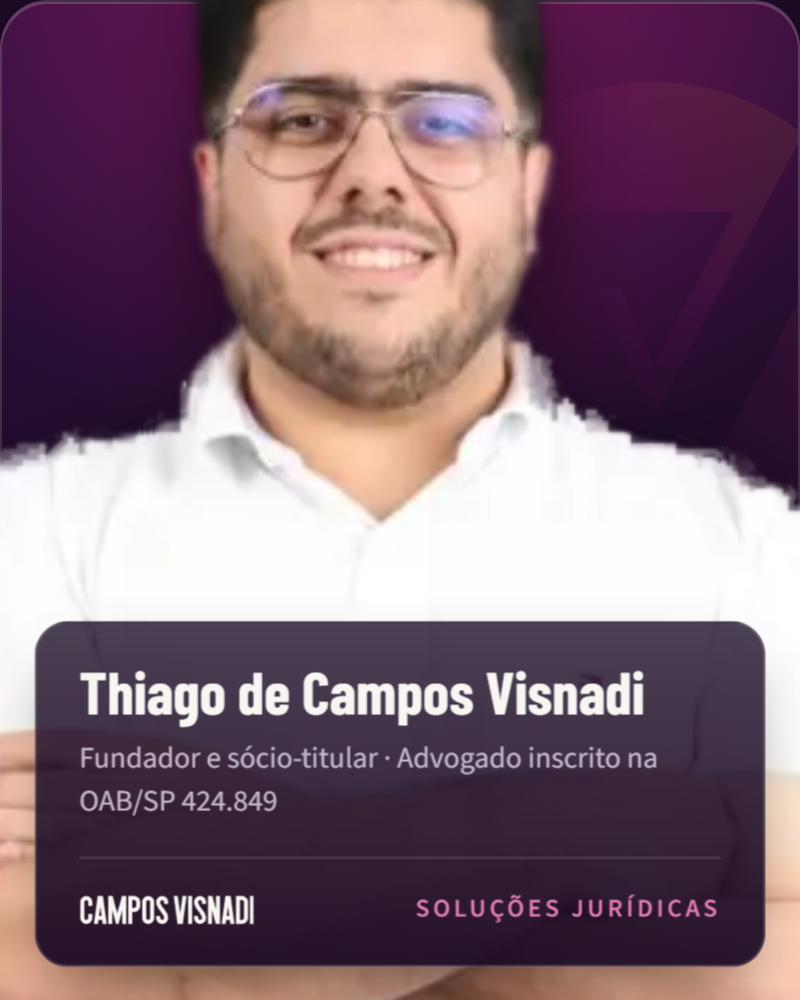
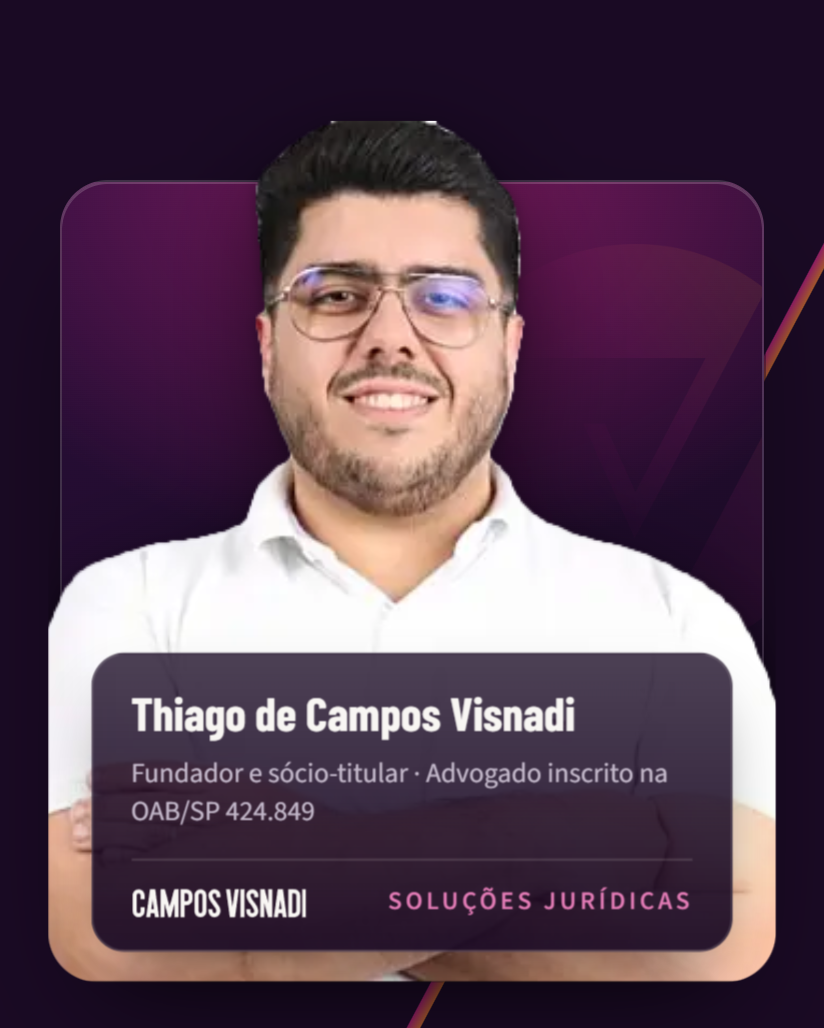
fix: recorte da foto mais nítido e sem furos na camisa
- Máscara = união de isnet-general-use + u2net_human_seg + birefnet-portrait,
  com preenchimento de buracos (camisa branca sobre fundo branco)
- Máscara calculada em 3x e aplicada nos pixels originais (sem upscale da
  imagem visível, que era a causa do desfoque) + unsharp mask
- Cartão menor e foto a 112%: menos ampliação, mantendo o relevo no topo

diff --git a/src/components/brand/founder-card.tsx b/src/components/brand/founder-card.tsx
@@ -50,7 +50,7 @@ export function FounderCard({ photo }: { photo: FounderPhoto | null }) {
   }, []);
 
   return (
-    <figure className="fc enter-card mx-auto w-full max-w-[25rem]">
+    <figure className="fc enter-card mx-auto w-full max-w-[22rem]">
       <div ref={stageRef} className="fc-stage">
         <div className="fc-bg" aria-hidden="true">
           <span className="fc-ring" />
@@ -64,7 +64,7 @@ export function FounderCard({ photo }: { photo: FounderPhoto | null }) {
             width={photo.width}
             height={photo.height}
             priority
-            sizes="(min-width: 1024px) 400px, 80vw"
+            sizes="(min-width: 1024px) 424px, 85vw"
             className="fc-photo"
           />
         ) : (
@@ -74,13 +74,13 @@ export function FounderCard({ photo }: { photo: FounderPhoto | null }) {
         )}
 
         <figcaption className="fc-plate">
-          <span className="block font-display text-[1.75rem] font-bold leading-none text-on-dark">
+          <span className="block font-display text-[1.375rem] font-bold leading-tight text-on-dark">
             {firm.founder.name}
           </span>
-          <span className="mt-2 block text-sm text-on-dark-muted">
+          <span className="mt-1.5 block text-[0.8125rem] leading-snug text-on-dark-muted">
             {firm.founder.role} · {firm.founder.registration}
           </span>
-          <span className="mt-4 flex items-center justify-between gap-3 border-t border-[rgb(248_246_243/0.14)] pt-4">
+          <span className="mt-3 flex items-center justify-between gap-3 border-t border-[rgb(248_246_243/0.14)] pt-3">
             <Wordmark className="h-3.5 w-auto text-on-dark" />
             <span className="text-xs font-semibold uppercase tracking-[0.14em] text-magenta-300">
               {firm.descriptor}

diff --git a/src/app/globals.css b/src/app/globals.css
@@ -537,8 +537,10 @@
   --ry: 0deg;
   --gx: 50%;
   position: relative;
-  aspect-ratio: 4 / 5;
-  margin-top: 18%;
+  /* cartão mais baixo: a foto (376x400 no original) precisa ser ampliada o
+     mínimo possível para ainda ultrapassar o topo. */
+  aspect-ratio: 1 / 1.12;
+  margin-top: 14%;
   transform-style: preserve-3d;
   transform: rotateX(var(--rx)) rotateY(var(--ry));
   transition: transform 500ms var(--ease-out);
@@ -578,13 +580,13 @@
   position: absolute;
   left: 50%;
   bottom: 0;
-  width: 132%;
+  width: 112%;
   max-width: none;
   height: auto;
   transform: translate3d(-50%, 0, 40px);
   /* recorta laterais e base pelo cartão; o topo "sai" do cartão */
-  /* lados recortados na borda do cartão: (132% - 100%) / 2 / 132% = 12.1% */
-  clip-path: inset(-60% 12.1% 0 12.1% round 0 0 24px 24px);
+  /* lados recortados na borda do cartão: (112% - 100%) / 2 / 112% = 5.4% */
+  clip-path: inset(-60% 5.4% 0 5.4% round 0 0 24px 24px);
   filter: drop-shadow(0 18px 24px rgb(0 0 0 / 0.45)) drop-shadow(0 2px 3px rgb(0 0 0 / 0.35));
 }
 .fc-photo-fallback {
@@ -598,8 +600,8 @@
   position: absolute;
   left: 7%;
   right: 7%;
-  bottom: 6%;
-  padding: 18px 20px;
+  bottom: 5%;
+  padding: 14px 18px;
   border-radius: 16px;
   background: linear-gradient(180deg, rgb(26 10 36 / 0.78), rgb(26 10 36 / 0.94));
   border: 1px solid rgb(248 246 243 / 0.14);
